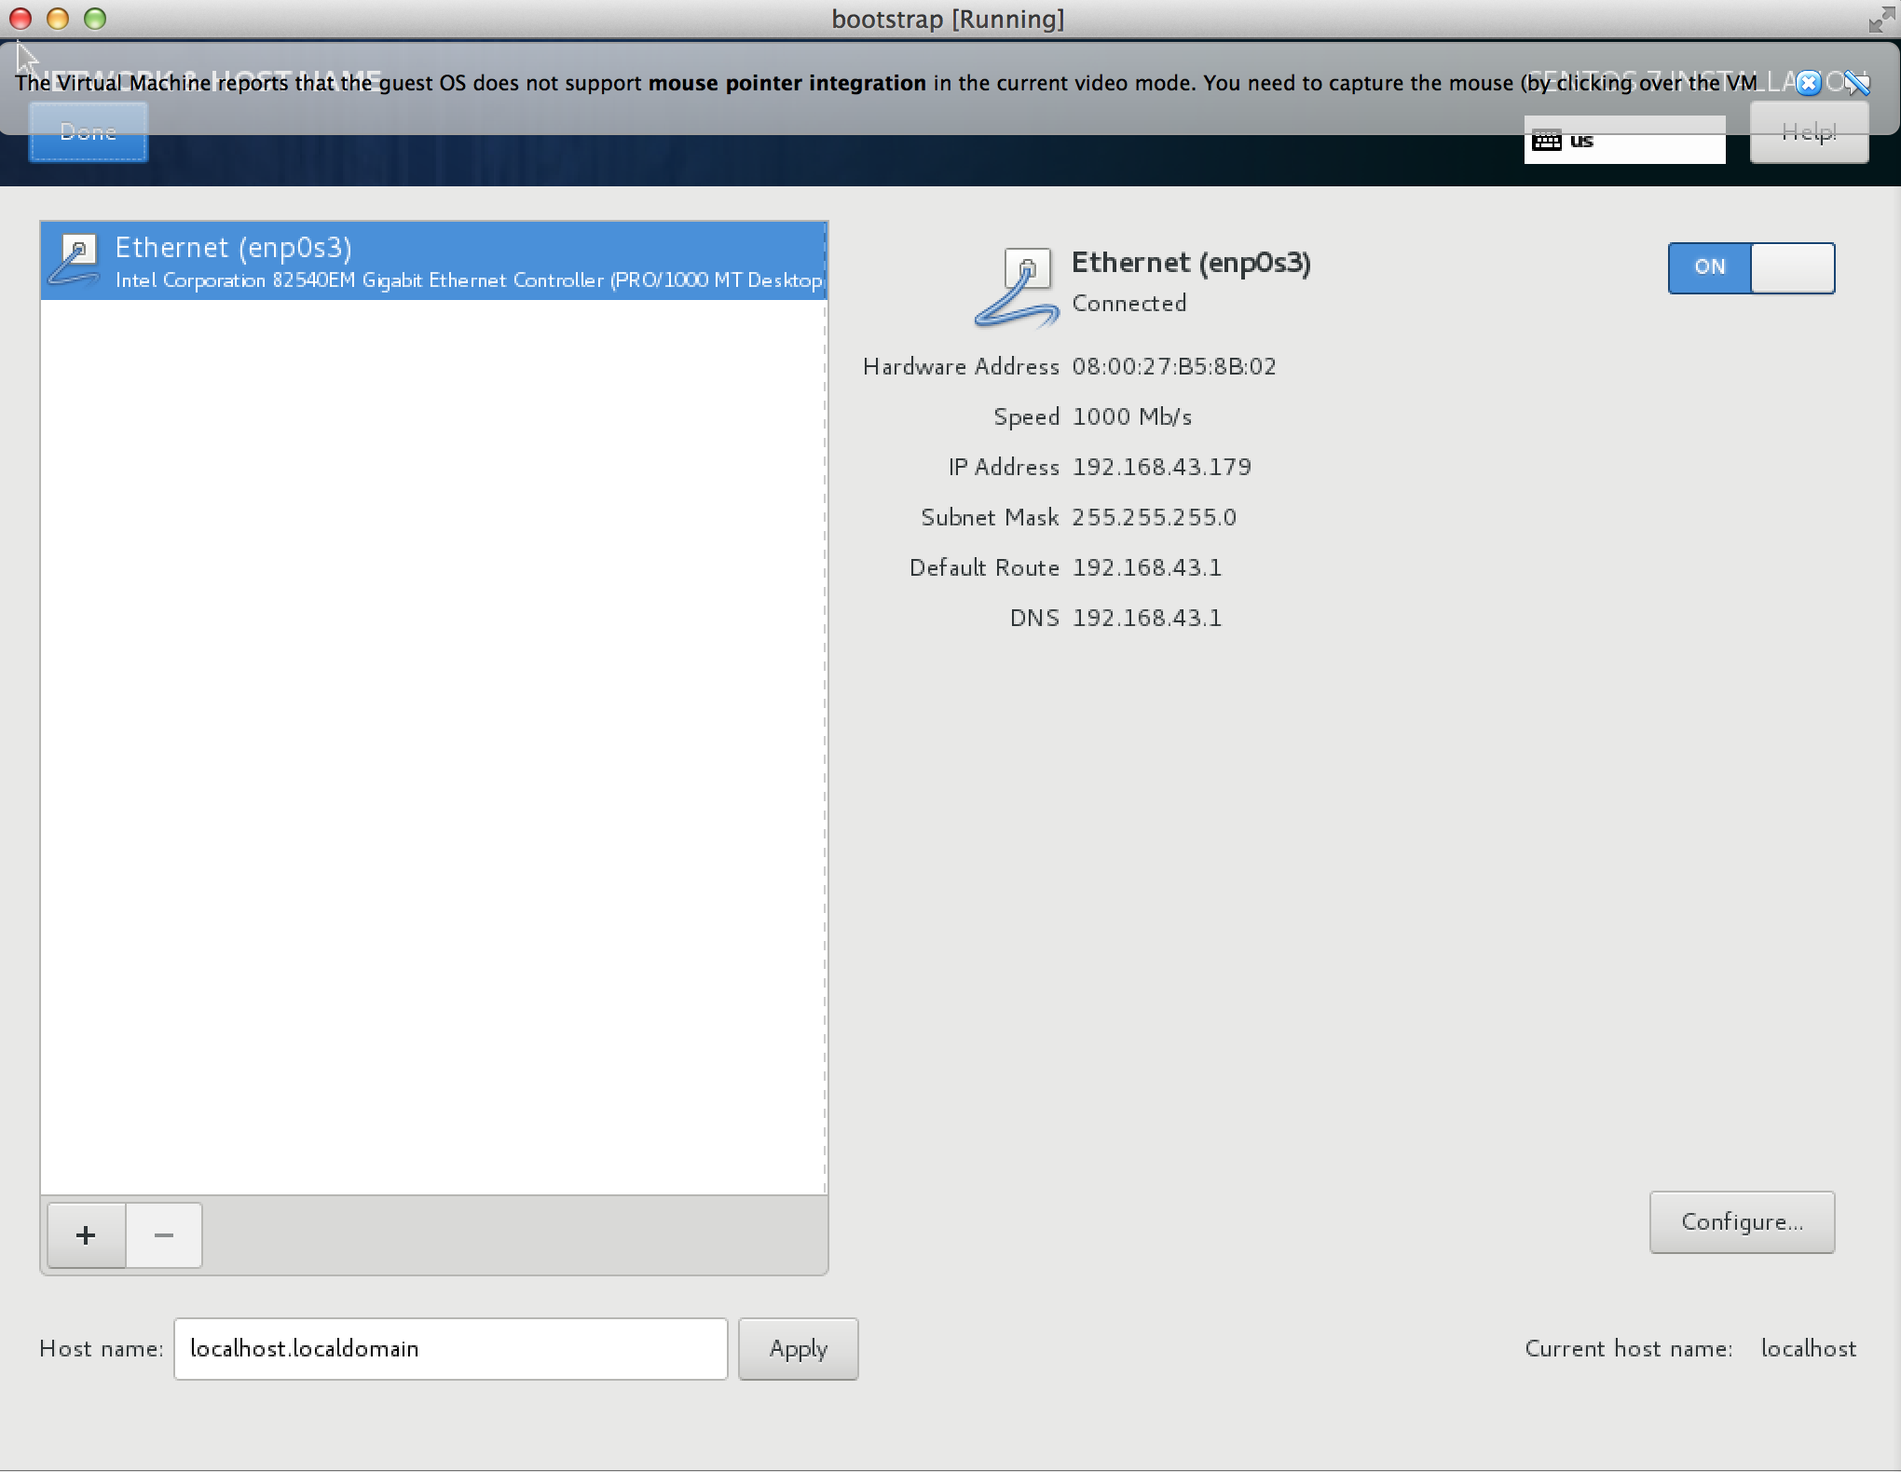
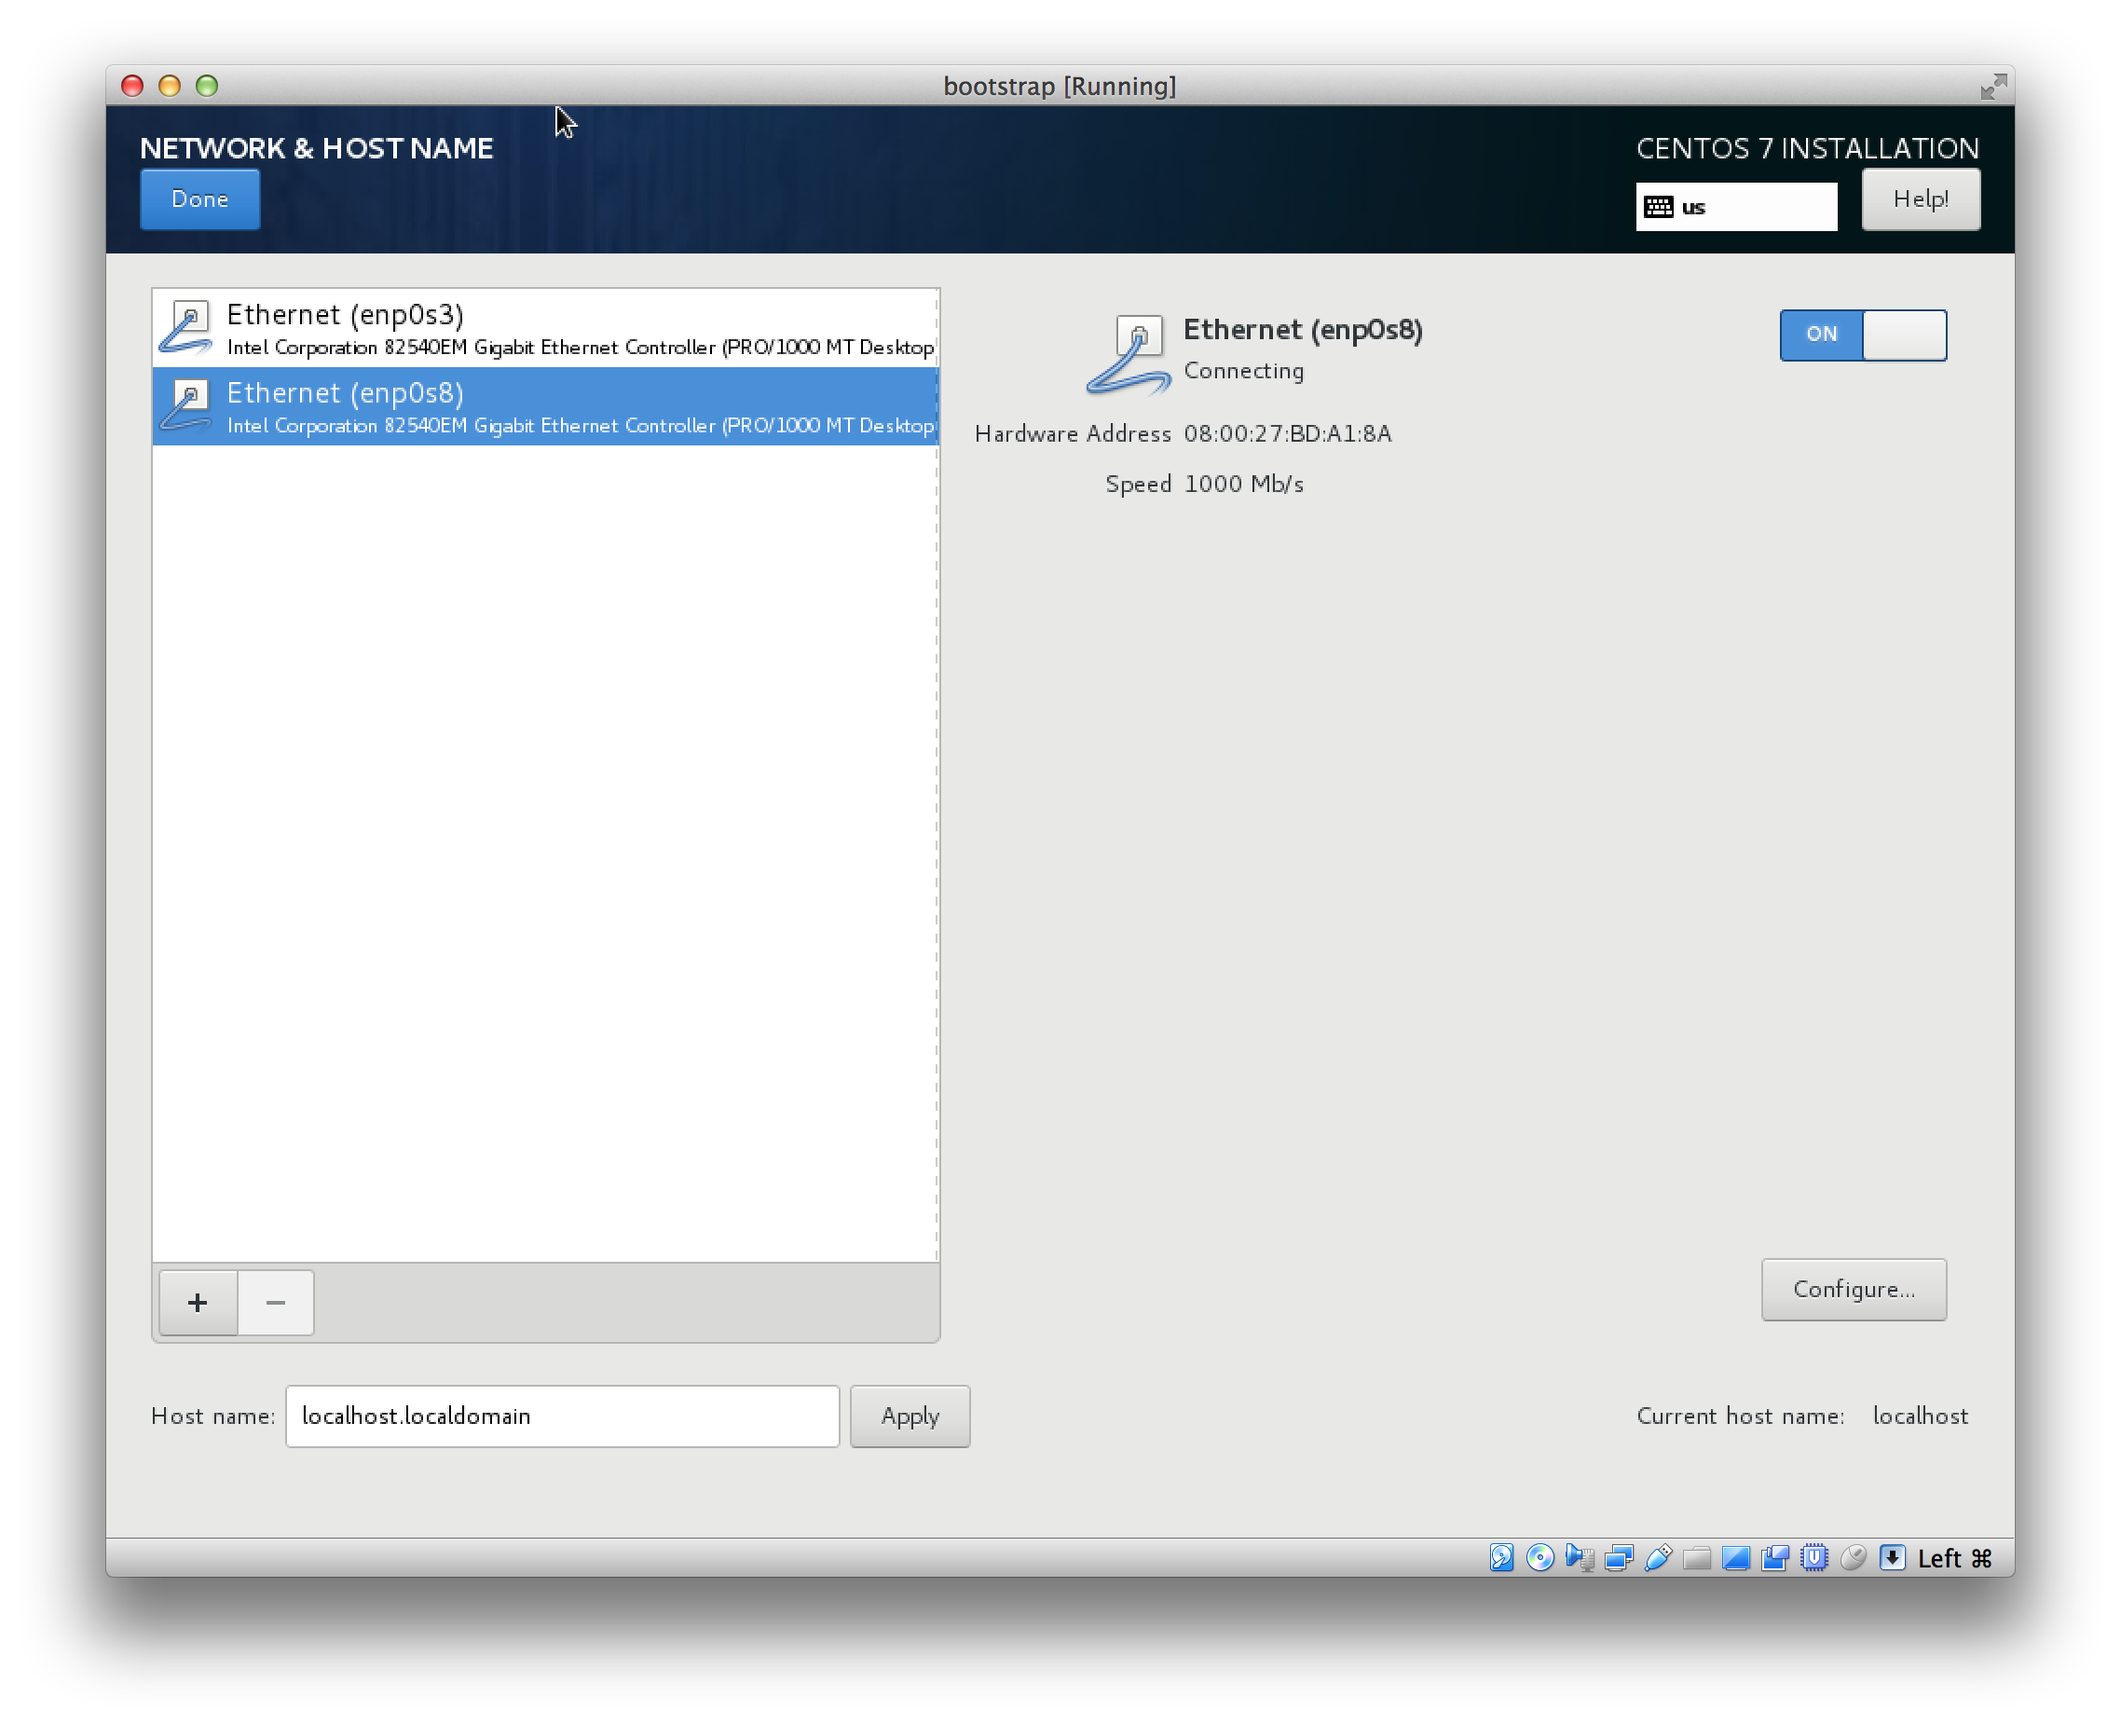
#57 Document update

Changed region(s): [[0.0, 0.0, 1.0, 1.0], [0.8338, 0.7443, 0.8956, 0.7753]]

diff --git a/document/additional-virtualbox.md b/document/additional-virtualbox.md
@@ -9,6 +9,12 @@
 Virtual Box 를 실행시킨 후, 다음 그림순서대로 설치를 진행하십시오.
 
 ---
+![](image/virtual0.png)
+
+호스트 네트워크 관리자 선택 후, 호스트 네트워크를 하나 생성 한 후 `DHCP 사용 안함` 을 체크하세요.
+`수동으로 어댑터 설정` 선택 후 IPv4 주소를 기억하도록 합니다. 이 주소는 VM 들이 사용할 gateway 주소가 됩니다.
+
+---
 ![](image/virtual1.png)
 
 새로 만들기를 선택 후 서버 이름, 종류, 버젼을 선택 후 `지금 새 가상 하드 디스크 만들기` 를 선택하세요.
@@ -32,9 +38,13 @@ VDI 이미지를 선택하고, `동적 할당` 또는 `고정 크기` 를 선택
   - `8core vm * 1ea && 4 core host => False!!`
 
 ---
-![](image/virtual4.png)
+![](image/virtual4-1.png)
+![](image/virtual4-1.png)
 
-브리지 어댑터를 선택 후 생성.
+Nat 어댑터, 호스트 온리 어댑터를 선택 후 생성.
+
+- Nat 어댑터: 인터넷 환경의 연결을 담당하는 어댑터 입니다.
+- 호스트 온리 어댑터: VM 끼리의 통신을 가능하게 하는 호스트 머신의 가상 네트워크 어댑터입니다.
 
 ---
 ![](image/virtual5.png)
@@ -54,7 +64,7 @@ Install CentOS 7
 ---
 ![](image/virtual8.png)
 
-인터넷 카드 선택 후 우측 상단에  `on` 체크 후, `Done` 클릭
+인터넷 카드 모두 선택 후 우측 상단에  `on` 체크 후, `Done` 클릭
 
 ---
 ![](image/virtual9.png)
@@ -70,6 +80,15 @@ root 패스워드를 설정합니다.
 ![](image/virtual11.png)
 
 centos 유저를 생성 후, 패스워드를 설정합니다.
+
+
+### VM 네트워크 고정아이피 설정
+
+브리지 어댑터는 공유기에서 할당받은 아이피를 VM 에 할당하게 되는데, VM 을 재부팅 하거나 공유기가 재부팅 될 경우 IP 가 바뀔 소지가 있습니다.
+
+클라우드 플랫폼은 IP 정보로 클러스터 구축이 되기 때문에, DHCP 방식이 아닌 고정아이피를 가져갈 필요가 있습니다.
+
+[네트워크 고정 아이피(옵셔널)](pre-static-ips.md) 섹션을 참조하여 각 VM 의 네트워크 스크립트를 수정하도록 합니다.
 
 
 ### centos 유저 sudo 등록
@@ -106,3 +125,4 @@ centos ALL=(ALL) NOPASSWD: ALL
 ```
 $ chmod u-w /etc/sudoers
 ```
+
